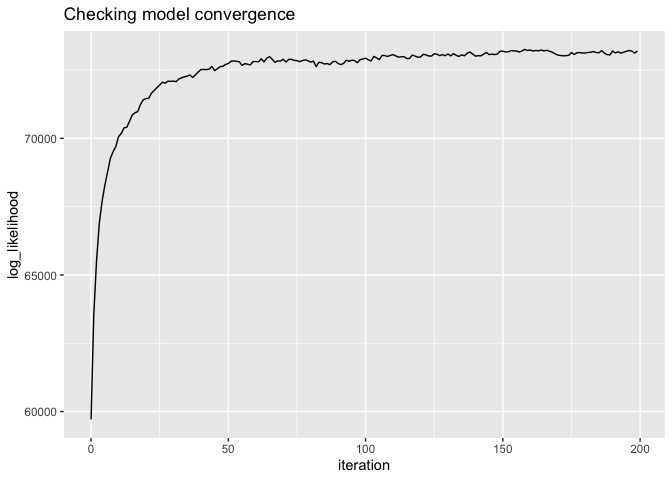
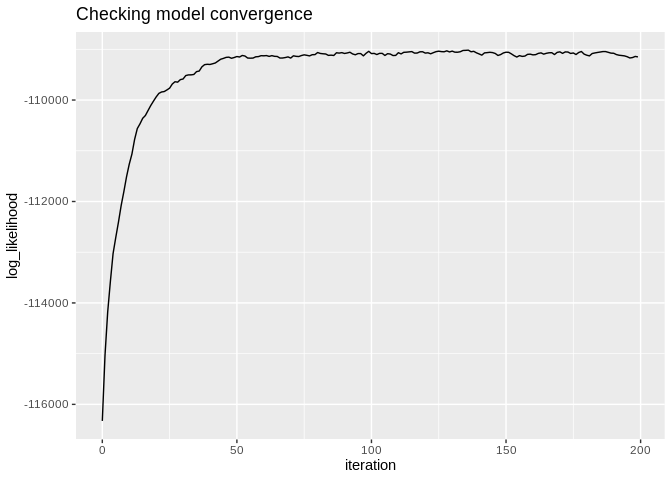
update readme to use the latest sampler

diff --git a/README.md b/README.md
@@ -71,12 +71,12 @@ unseen documents, and update the model with those new documents.
 ``` r
 library(tidytext)
 library(tidyverse)
-#> ── Attaching packages ──────────────────────────────────────────────────────────────── tidyverse 1.3.0 ──
-#> ✓ ggplot2 3.3.0     ✓ purrr   0.3.4
+#> ── Attaching packages ─────────────────────────────────────────────────────────── tidyverse 1.3.0 ──
+#> ✓ ggplot2 3.3.1     ✓ purrr   0.3.4
 #> ✓ tibble  3.0.1     ✓ dplyr   1.0.0
 #> ✓ tidyr   1.1.0     ✓ stringr 1.4.0
 #> ✓ readr   1.3.1     ✓ forcats 0.5.0
-#> ── Conflicts ─────────────────────────────────────────────────────────────────── tidyverse_conflicts() ──
+#> ── Conflicts ────────────────────────────────────────────────────────────── tidyverse_conflicts() ──
 #> x dplyr::filter() masks stats::filter()
 #> x dplyr::lag()    masks stats::lag()
 library(tidylda)
@@ -164,44 +164,44 @@ print(lda)
 #>     beta = 0.05, optimize_alpha = FALSE, calc_likelihood = TRUE, 
 #>     calc_r2 = TRUE, return_data = FALSE)
 #> 
-#> The model's R-squared is  0.2812 
+#> The model's R-squared is  0.2736 
 #> The  5  most prevalent topics are:
 #> # A tibble: 10 x 4
-#>   topic prevalence coherence top_terms                     
-#>   <dbl>      <dbl>     <dbl> <chr>                         
-#> 1     6      12        0.290 imaging, diabetes, cancer, ...
-#> 2     1      11.4      0.218 cell, specific, in, ...       
-#> 3     9      11.4      0.272 v4, effects, stiffening, ...  
-#> 4     2      11.3      0.118 mitochondrial, the, cells, ...
-#> 5     4       9.95     0.426 c, function, cmybp, ...       
+#>   topic prevalence coherence top_terms                      
+#>   <dbl>      <dbl>     <dbl> <chr>                          
+#> 1     1      12.1    0.103   cell, infection, dcis, ...     
+#> 2     8      12.0    0.369   cancer, diabetes, numeracy, ...
+#> 3     4      11.9   -0.00801 research, plasticity, the, ... 
+#> 4     7      10.8    0.364   c, cmybp, cmybp c, ...         
+#> 5     3       9.63  -0.0180  sleep, hiv, rb, ...            
 #> # … with 5 more rows
 #> 
 #> The  5  most coherent topics are:
 #> # A tibble: 10 x 4
-#>   topic prevalence coherence top_terms                     
-#>   <dbl>      <dbl>     <dbl> <chr>                         
-#> 1     4       9.95     0.426 c, function, cmybp, ...       
-#> 2     7       7.73     0.303 sud, risk, cdk5, ...          
-#> 3     6      12        0.290 imaging, diabetes, cancer, ...
-#> 4     9      11.4      0.272 v4, effects, stiffening, ...  
-#> 5     1      11.4      0.218 cell, specific, in, ...       
+#>   topic prevalence coherence top_terms                         
+#>   <dbl>      <dbl>     <dbl> <chr>                             
+#> 1     2       8.84     0.426 mitochondrial, redox, studies, ...
+#> 2     8      12.0      0.369 cancer, diabetes, numeracy, ...   
+#> 3     7      10.8      0.364 c, cmybp, cmybp c, ...            
+#> 4     9       9.62     0.176 lung, stiffening, wall, ...       
+#> 5     6       8.13     0.173 imaging, clinical, cancer, ...    
 #> # … with 5 more rows
 
 # it comes with its own summary matrix that's printed out with print(), above
 lda$summary
 #> # A tibble: 10 x 4
-#>    topic prevalence coherence top_terms                     
-#>    <dbl>      <dbl>     <dbl> <chr>                         
-#>  1     1      11.4     0.218  cell, specific, in, ...       
-#>  2     2      11.3     0.118  mitochondrial, the, cells, ...
-#>  3     3       9.61    0.0257 sleep, the, repair, ...       
-#>  4     4       9.95    0.426  c, function, cmybp, ...       
-#>  5     5       7.83    0.0840 the, cns, pd, ...             
-#>  6     6      12       0.290  imaging, diabetes, cancer, ...
-#>  7     7       7.73    0.303  sud, risk, cdk5, ...          
-#>  8     8       9.91    0.0725 program, dcis, the, ...       
-#>  9     9      11.4     0.272  v4, effects, stiffening, ...  
-#> 10    10       8.91    0.0846 the, research, core, ...
+#>    topic prevalence coherence top_terms                         
+#>    <dbl>      <dbl>     <dbl> <chr>                             
+#>  1     1      12.1    0.103   cell, infection, dcis, ...        
+#>  2     2       8.84   0.426   mitochondrial, redox, studies, ...
+#>  3     3       9.63  -0.0180  sleep, hiv, rb, ...               
+#>  4     4      11.9   -0.00801 research, plasticity, the, ...    
+#>  5     5       7.87   0.0972  the, cns, based, ...              
+#>  6     6       8.13   0.173   imaging, clinical, cancer, ...    
+#>  7     7      10.8    0.364   c, cmybp, cmybp c, ...            
+#>  8     8      12.0    0.369   cancer, diabetes, numeracy, ...   
+#>  9     9       9.62   0.176   lung, stiffening, wall, ...       
+#> 10    10       9.06   0.121   the, cdk5, nmdar, ...
 
 
 # inspect the individual matrices
@@ -211,16 +211,16 @@ tidy_theta
 #> # A tibble: 500 x 3
 #>    document topic   theta
 #>    <chr>    <dbl>   <dbl>
-#>  1 8574224      1 0.00739
+#>  1 8574224      1 0.00304
 #>  2 8574224      2 0.00217
-#>  3 8574224      3 0.00304
+#>  3 8574224      3 0.00739
 #>  4 8574224      4 0.00217
-#>  5 8574224      5 0.00304
+#>  5 8574224      5 0.00391
 #>  6 8574224      6 0.00217
-#>  7 8574224      7 0.149  
-#>  8 8574224      8 0.00478
-#>  9 8574224      9 0.0196 
-#> 10 8574224     10 0.807  
+#>  7 8574224      7 0.00391
+#>  8 8574224      8 0.00304
+#>  9 8574224      9 0.00478
+#> 10 8574224     10 0.967  
 #> # … with 490 more rows
 
 tidy_phi <- tidy(lda, matrix = "phi")
@@ -229,16 +229,16 @@ tidy_phi
 #> # A tibble: 15,970 x 3
 #>    topic token              phi
 #>    <dbl> <chr>            <dbl>
-#>  1     1 adolescence  0.0000599
-#>  2     1 age          0.0000599
-#>  3     1 application  0.0000599
-#>  4     1 depressive   0.0000599
-#>  5     1 disorder     0.0000599
-#>  6     1 emotionality 0.0000599
-#>  7     1 information  0.0000599
-#>  8     1 mdd          0.0000599
-#>  9     1 onset        0.0000599
-#> 10     1 onset.mdd    0.0000599
+#>  1     1 adolescence  0.0000566
+#>  2     1 age          0.0000566
+#>  3     1 application  0.0000566
+#>  4     1 depressive   0.0000566
+#>  5     1 disorder     0.0000566
+#>  6     1 emotionality 0.0000566
+#>  7     1 information  0.00232  
+#>  8     1 mdd          0.0000566
+#>  9     1 onset        0.0000566
+#> 10     1 onset.mdd    0.0000566
 #> # … with 15,960 more rows
 
 tidy_gamma <- tidy(lda, matrix = "gamma")
@@ -247,15 +247,15 @@ tidy_gamma
 #> # A tibble: 15,970 x 3
 #>    topic token          gamma
 #>    <dbl> <chr>          <dbl>
-#>  1     1 adolescence  0.00794
-#>  2     1 age          0.00935
-#>  3     1 application  0.00785
-#>  4     1 depressive   0.0205 
-#>  5     1 disorder     0.0205 
-#>  6     1 emotionality 0.0205 
-#>  7     1 information  0.00671
-#>  8     1 mdd          0.0114 
-#>  9     1 onset        0.00800
+#>  1     1 adolescence  0.00788
+#>  2     1 age          0.00938
+#>  3     1 application  0.00797
+#>  4     1 depressive   0.0206 
+#>  5     1 disorder     0.0206 
+#>  6     1 emotionality 0.0206 
+#>  7     1 information  0.276  
+#>  8     1 mdd          0.0115 
+#>  9     1 onset        0.00786
 #> 10     1 onset.mdd    0.0206 
 #> # … with 15,960 more rows
 
@@ -313,27 +313,27 @@ print(lda2)
 #> refit.tidylda(object = lda, dtm = d, iterations = 200, burnin = 175, 
 #>     calc_likelihood = TRUE, calc_r2 = TRUE)
 #> 
-#> The model's R-squared is  0.1644 
+#> The model's R-squared is  0.1605 
 #> The  5  most prevalent topics are:
 #> # A tibble: 10 x 4
-#>   topic prevalence coherence top_terms                   
-#>   <dbl>      <dbl>     <dbl> <chr>                       
-#> 1     8      12.6     0.107  research, the, program, ... 
-#> 2     1      11.5     0.192  cell, cells, infection, ... 
-#> 3     2      11.0     0.140  hiv, the, mitochondrial, ...
-#> 4     3      10.8     0.0212 microbiome, ptc, gut, ...   
-#> 5     5       9.57    0.0209 the, treatment, disease, ...
+#>   topic prevalence coherence top_terms                  
+#>   <dbl>      <dbl>     <dbl> <chr>                      
+#> 1     4       15.0   0.0773  research, program, the, ...
+#> 2     1       11.2   0.194   cell, infection, cells, ...
+#> 3     9       11.0   0.248   lung, ipf, muscle, ...     
+#> 4     5       10.8   0.00672 the, treatment, based, ... 
+#> 5     8       10     0.0953  health, risk, the, ...     
 #> # … with 5 more rows
 #> 
 #> The  5  most coherent topics are:
 #> # A tibble: 10 x 4
-#>   topic prevalence coherence top_terms                   
-#>   <dbl>      <dbl>     <dbl> <chr>                       
-#> 1     7       9.06     0.256 risk, factors, sud, ...     
-#> 2     4       8.04     0.198 c, function, determine, ... 
-#> 3     1      11.5      0.192 cell, cells, infection, ... 
-#> 4     2      11.0      0.140 hiv, the, mitochondrial, ...
-#> 5     6       8.97     0.112 cancer, cells, imaging, ... 
+#>   topic prevalence coherence top_terms                       
+#>   <dbl>      <dbl>     <dbl> <chr>                           
+#> 1     2       7.85    0.298  ptc, mitochondrial, studies, ...
+#> 2     9      11.0     0.248  lung, ipf, muscle, ...          
+#> 3     7       8.01    0.197  c, injury, cmybp, ...           
+#> 4     1      11.2     0.194  cell, infection, cells, ...     
+#> 5     8      10       0.0953 health, risk, the, ...          
 #> # … with 5 more rows
 
 # how does that compare to the old model?
@@ -343,27 +343,27 @@ print(lda)
 #>     beta = 0.05, optimize_alpha = FALSE, calc_likelihood = TRUE, 
 #>     calc_r2 = TRUE, return_data = FALSE)
 #> 
-#> The model's R-squared is  0.2812 
+#> The model's R-squared is  0.2736 
 #> The  5  most prevalent topics are:
 #> # A tibble: 10 x 4
-#>   topic prevalence coherence top_terms                     
-#>   <dbl>      <dbl>     <dbl> <chr>                         
-#> 1     6      12        0.290 imaging, diabetes, cancer, ...
-#> 2     1      11.4      0.218 cell, specific, in, ...       
-#> 3     9      11.4      0.272 v4, effects, stiffening, ...  
-#> 4     2      11.3      0.118 mitochondrial, the, cells, ...
-#> 5     4       9.95     0.426 c, function, cmybp, ...       
+#>   topic prevalence coherence top_terms                      
+#>   <dbl>      <dbl>     <dbl> <chr>                          
+#> 1     1      12.1    0.103   cell, infection, dcis, ...     
+#> 2     8      12.0    0.369   cancer, diabetes, numeracy, ...
+#> 3     4      11.9   -0.00801 research, plasticity, the, ... 
+#> 4     7      10.8    0.364   c, cmybp, cmybp c, ...         
+#> 5     3       9.63  -0.0180  sleep, hiv, rb, ...            
 #> # … with 5 more rows
 #> 
 #> The  5  most coherent topics are:
 #> # A tibble: 10 x 4
-#>   topic prevalence coherence top_terms                     
-#>   <dbl>      <dbl>     <dbl> <chr>                         
-#> 1     4       9.95     0.426 c, function, cmybp, ...       
-#> 2     7       7.73     0.303 sud, risk, cdk5, ...          
-#> 3     6      12        0.290 imaging, diabetes, cancer, ...
-#> 4     9      11.4      0.272 v4, effects, stiffening, ...  
-#> 5     1      11.4      0.218 cell, specific, in, ...       
+#>   topic prevalence coherence top_terms                         
+#>   <dbl>      <dbl>     <dbl> <chr>                             
+#> 1     2       8.84     0.426 mitochondrial, redox, studies, ...
+#> 2     8      12.0      0.369 cancer, diabetes, numeracy, ...   
+#> 3     7      10.8      0.364 c, cmybp, cmybp c, ...            
+#> 4     9       9.62     0.176 lung, stiffening, wall, ...       
+#> 5     6       8.13     0.173 imaging, clinical, cancer, ...    
 #> # … with 5 more rows
 ```
 
